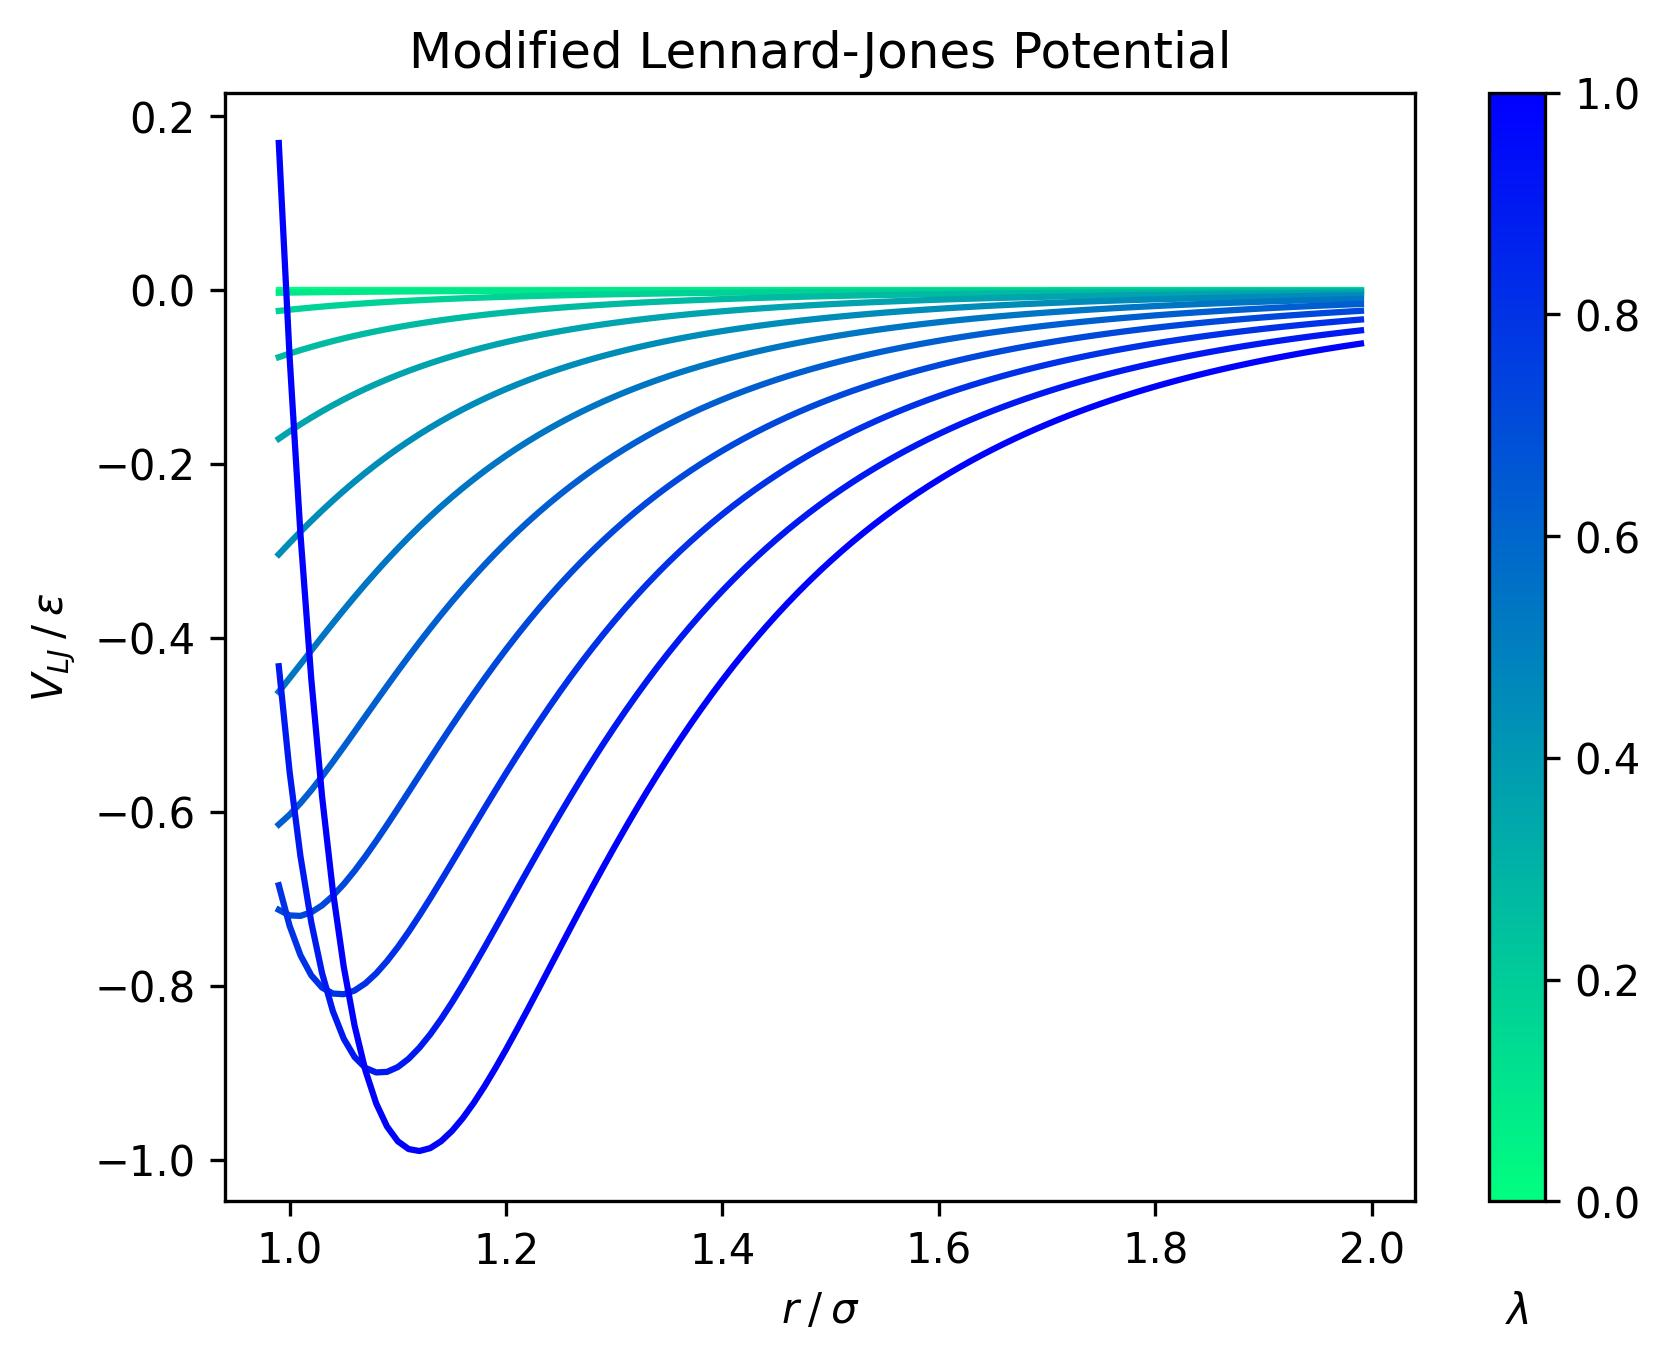
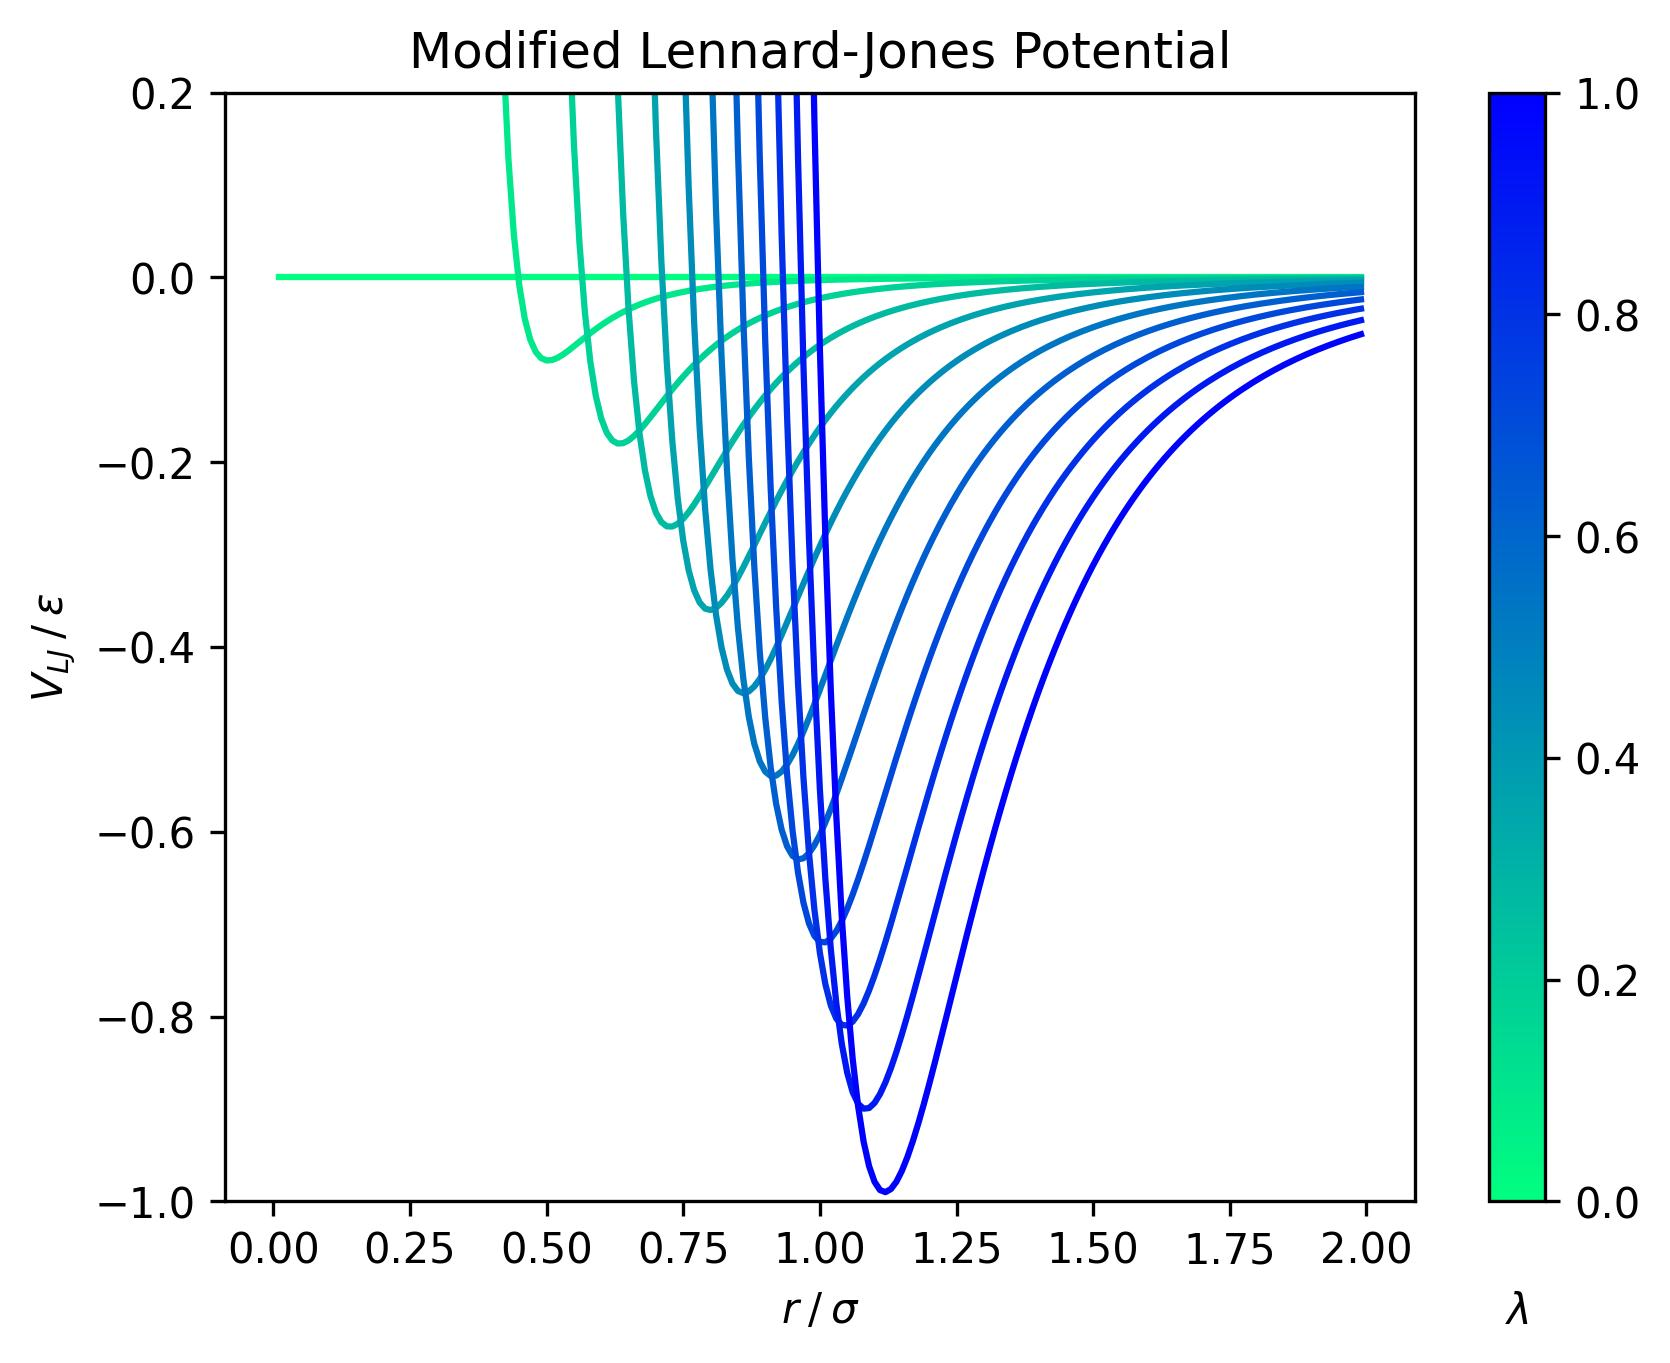
improves image

diff --git a/report/plots.py b/report/plots.py
@@ -4,7 +4,7 @@ from   matplotlib        import colormaps
 from   matplotlib.cm     import ScalarMappable
 
 u = lambda r,l: 4*(l**5*r**-12 - l**3*r**-6)
-x = np.arange(.99,2,.01)
+x = np.arange(0,2,.01)
 l = np.arange(0,1,0.09)
 
 cmap = colormaps['winter_r']
@@ -17,4 +17,5 @@ plt.ylabel(r'$V_{LJ}\: /\: \epsilon$',fontsize=10)
 clb = plt.colorbar(ScalarMappable(cmap=cmap),ax=plt.gca())
 clb.ax.set_xlabel(r'$\lambda$',labelpad=18,fontsize=10)
 plt.title('Modified Lennard-Jones Potential')
+plt.ylim([-1,0.2])
 plt.savefig('modLJ.jpg',dpi=300,bbox_inches='tight',pad_inches=0.1)
